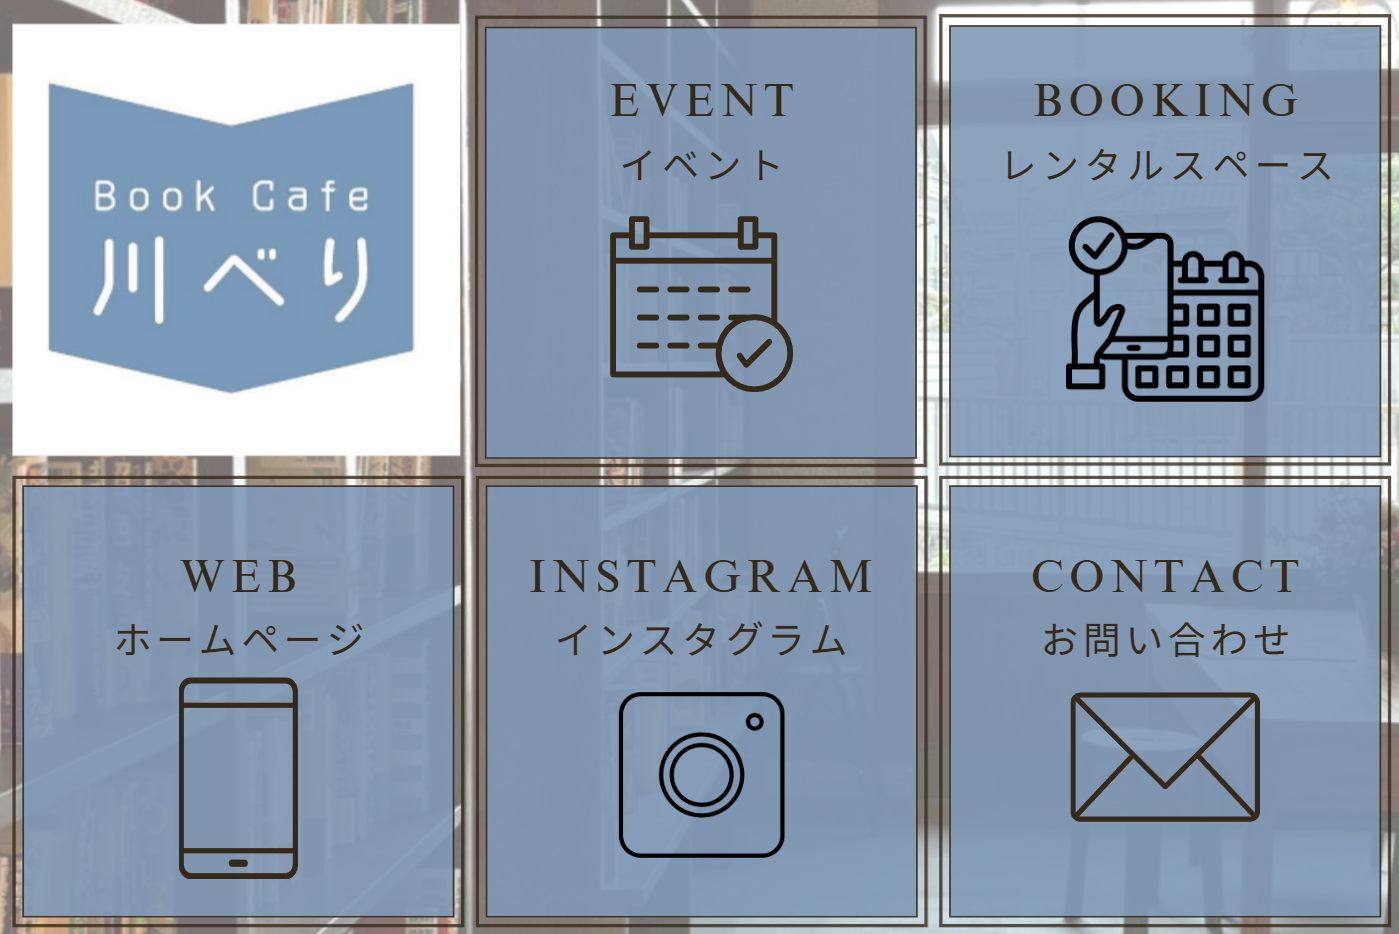
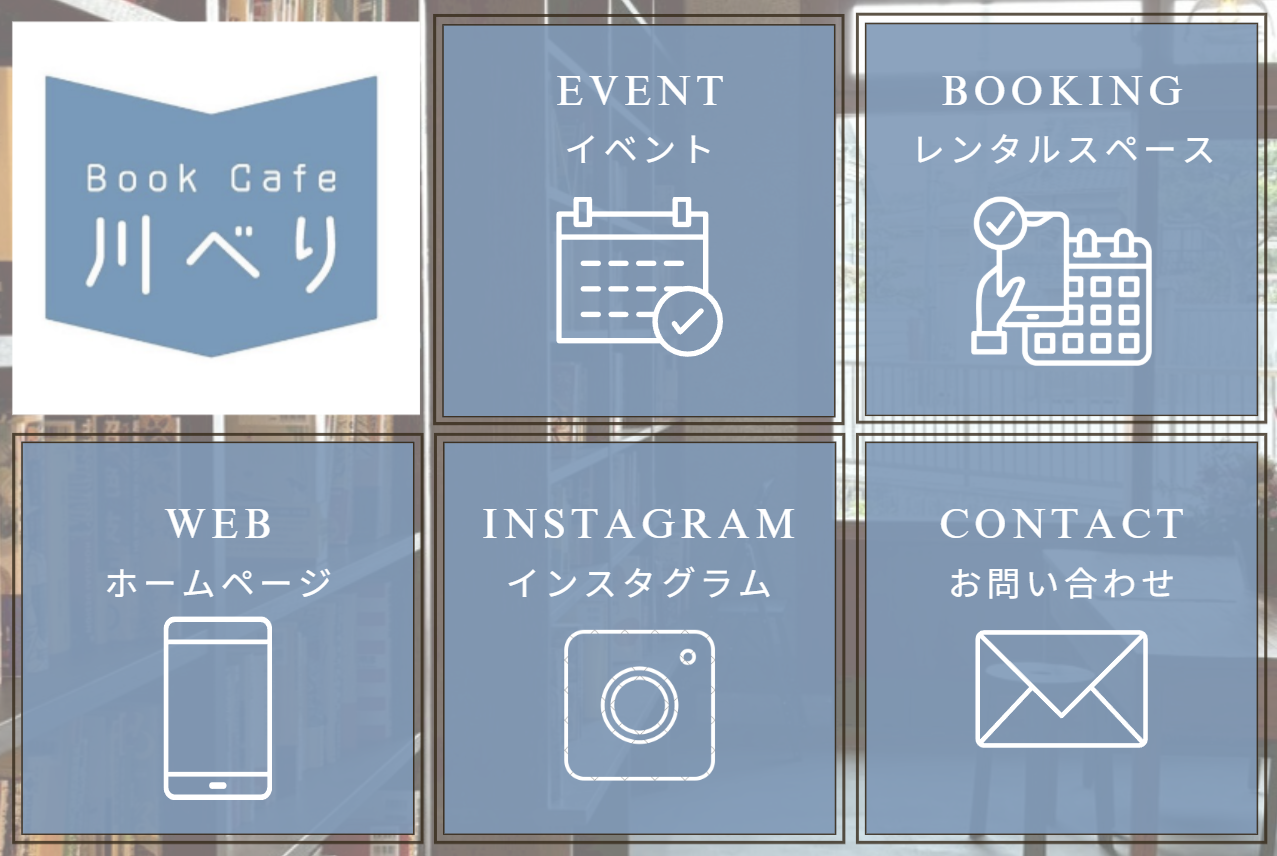
紀伊國屋書店リンクをISBNから動的生成し、リッチメニュー画像を更新
書籍詳細ページの購入リンクを出版社検索ページへの固定リンクから、
各書籍のISBNに基づく個別商品ページへのリンクに変更（ISBN未設定時はボタン非表示）。
あわせてリッチメニュー画像を差し替え。

diff --git a/src/app/books/[id]/page.tsx b/src/app/books/[id]/page.tsx
@@ -1,4 +1,4 @@
-import { getBookById } from "@/lib/books";
+import { getBookById, getKinokuniyaUrl } from "@/lib/books";
 import { notFound } from "next/navigation";
 import Link from "next/link";
 import { ChevronRight } from "lucide-react";
@@ -12,6 +12,8 @@ export default async function BookDetailPage({ params }: { params: Promise<{ id:
   if (!book) {
     notFound();
   }
+
+  const kinokuniyaUrl = getKinokuniyaUrl(book.isbn);
 
   return (
     <div className="flex flex-col gap-16 pb-24 bg-background">
@@ -101,15 +103,17 @@ export default async function BookDetailPage({ params }: { params: Promise<{ id:
 
               {/* Purchase Button */}
               <div className="pt-12 flex flex-col sm:flex-row gap-6">
-                <a 
-                  href="https://www.kinokuniya.co.jp/disp/CSfDispListPage_001.jsp?qsd=true&ptk=01&publisher-key=%E8%90%8C%E6%9B%B8%E6%88%BF"
-                  target="_blank"
-                  rel="noopener noreferrer"
-                  className="bg-wakaba-base text-accent border border-accent/10 px-12 py-5 rounded-none font-bold tracking-[0.2em] text-[11px] uppercase hover:bg-wakaba-hover hover:border-accent/30 transition-all font-serif shadow-sm text-center"
-                >
-                  購入する（紀伊國屋書店）
-                </a>
-                <Link 
+                {kinokuniyaUrl && (
+                  <a
+                    href={kinokuniyaUrl}
+                    target="_blank"
+                    rel="noopener noreferrer"
+                    className="bg-wakaba-base text-accent border border-accent/10 px-12 py-5 rounded-none font-bold tracking-[0.2em] text-[11px] uppercase hover:bg-wakaba-hover hover:border-accent/30 transition-all font-serif shadow-sm text-center"
+                  >
+                    購入する（紀伊國屋書店）
+                  </a>
+                )}
+                <Link
                   href="/contact" 
                   className="border border-accent/20 text-accent/60 px-12 py-5 rounded-none font-bold tracking-[0.2em] text-[11px] uppercase hover:bg-wakaba-hover hover:text-accent transition-all font-serif text-center"
                 >

diff --git a/src/lib/books.ts b/src/lib/books.ts
@@ -92,3 +92,16 @@ export async function getBookById(id: number): Promise<Book | undefined> {
   const books = await getBooks();
   return books.find(book => book.id === id);
 }
+
+const KINOKUNIYA_BASE_URL = "https://www.kinokuniya.co.jp/f/dsg-01-";
+
+/**
+ * ISBNから紀伊國屋書店の商品ページURLを生成する。
+ * ISBNが空、またはハイフン・空白を除去した結果が空の場合はundefinedを返す。
+ */
+export function getKinokuniyaUrl(isbn: string | undefined | null): string | undefined {
+  if (!isbn) return undefined;
+  const normalized = isbn.replace(/[-\s　]/g, "");
+  if (!normalized) return undefined;
+  return `${KINOKUNIYA_BASE_URL}${normalized}`;
+}
